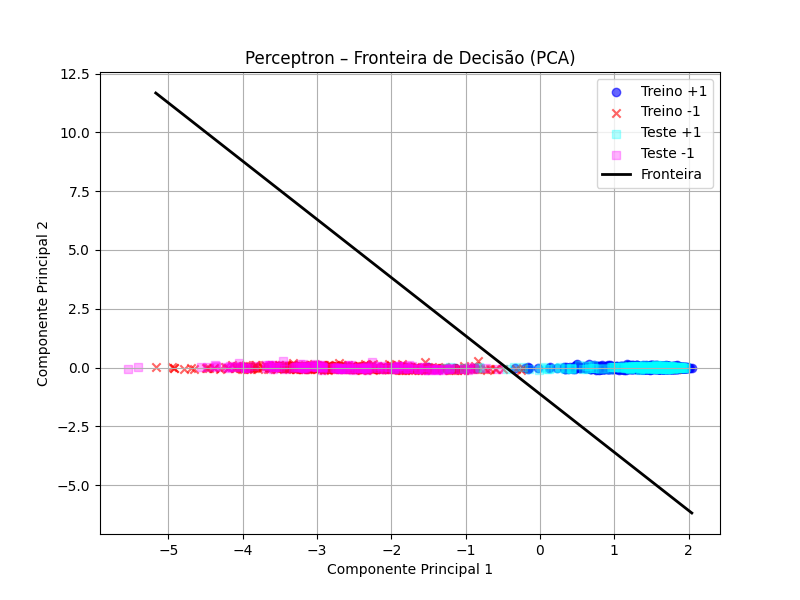
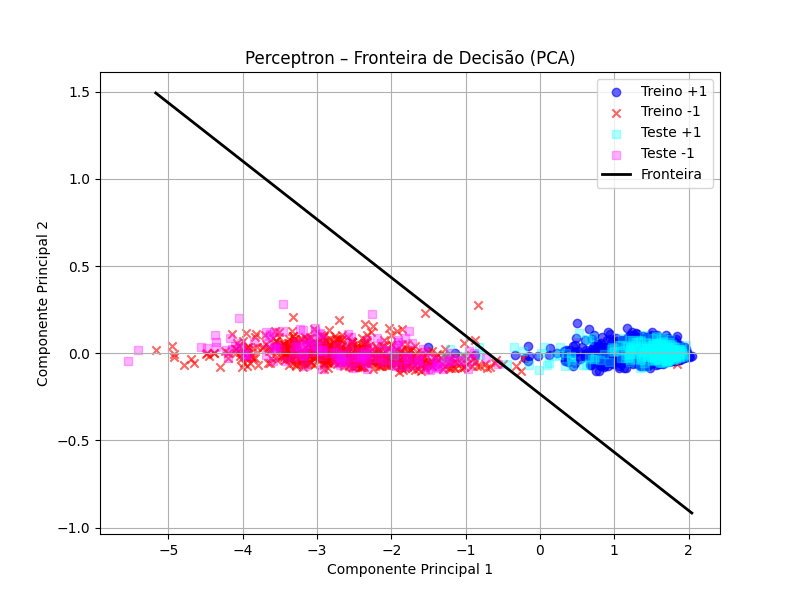
docs: README atualizado com instruções de execução e explicação do modelo

diff --git a/perceptron.py b/perceptron.py
@@ -95,7 +95,7 @@ if __name__ == "__main__":
     x_train, y_train = preprocessar(x_train, y_train, class_pos = 1, class_neg = 5)
     x_test, y_test = preprocessar(x_test, y_test, class_pos = 1, class_neg = 5)
 
-    w = perceptron_pla(x_train, y_train, max_epocas=1, semente=87)
+    w = perceptron_pla(x_train, y_train, max_epocas=1000, semente=10)
 
     pred_train = np.sign(np.dot(x_train, w))
     pred_test  = np.sign(np.dot(x_test, w))

diff --git a/README.md b/README.md
@@ -1,2 +1,96 @@
 # Perceptron
-Implementação de modelo de perceptron
+
+Implementação de um perceptron treinado com o algoritmo PLA para classificar dígitos do dataset `digits` entre as classes `1` e `5`.
+
+O projeto foi feito para carregar os dados, filtrar apenas essas duas classes, adicionar bias, treinar o modelo, medir erro/acurácia em treino e teste e visualizar a fronteira de decisão em 2D com PCA.
+
+## Visão geral
+
+O arquivo principal é `perceptron.py`. Ele faz o seguinte:
+
+1. Carrega os arquivos `dataset/digits.train` e `dataset/digits.test`.
+2. Filtra somente as amostras das classes `1` e `5`.
+3. Converte os rótulos para `+1` e `-1`.
+4. Adiciona uma coluna de bias nas entradas.
+5. Treina um perceptron com inicialização aleatória dos pesos e limite de épocas.
+6. Calcula erro e acurácia dentro e fora da amostra.
+7. Reduz os dados para 2 dimensões com PCA apenas para visualização.
+8. Plota e salva a fronteira de decisão em `fronteira_decisao.png`.
+
+## Requisitos
+
+- Python 3.10 ou superior
+- Dependências listadas em `requirements.txt`
+
+As bibliotecas usadas no código são:
+
+- `numpy`
+- `matplotlib`
+- `scikit-learn`
+
+## Instalação
+
+Crie e ative um ambiente virtual, se quiser isolar a execução, e instale as dependências:
+
+```bash
+python -m pip install -r requirements.txt
+```
+
+## Como rodar
+
+Execute o script principal a partir da raiz do projeto:
+
+```bash
+python perceptron.py
+```
+
+## O que acontece na execução
+
+Durante a execução, o script:
+
+- lê os dados de treino e teste;
+- mantém apenas as classes `1` e `5`;
+- transforma a classe `5` em `-1` e a classe `1` em `+1`;
+- adiciona bias nas features;
+- treina o perceptron com `max_epocas=1000` e semente `10`;
+- imprime o erro e a acurácia em treino e teste;
+- abre um gráfico com a fronteira de decisão;
+- salva a figura como `fronteira_decisao.png`.
+
+## Estrutura do código
+
+### `carregar_dados(path)`
+Carrega o dataset no formato texto e separa rótulos e atributos.
+
+### `preprocessar(x, y, class_pos=1, class_neg=5)`
+Filtra apenas as duas classes desejadas, converte os rótulos para `+1/-1` e adiciona bias.
+
+### `perceptron_pla(x, y, max_epocas=1000, semente=None)`
+Treina o perceptron pelo PLA. A cada época, percorre as amostras e atualiza os pesos sempre que há erro de classificação.
+
+### `erro(y_verdadeiro, y_predito)`
+Calcula a taxa de erro como a proporção de previsões incorretas.
+
+### `plotar_fronteira(X_train, y_train, X_test, y_test, pesos)`
+Reduz os dados para 2 dimensões com PCA, projeta os pesos no mesmo espaço e desenha a fronteira de decisão.
+
+## Saída esperada
+
+Ao final, o script imprime algo no formato:
+
+```text
+Erro dentro da amostra: 0.XXXX  |  Acurácia: 0.XXXX
+Erro fora da amostra:    0.XXXX  |  Acurácia: 0.XXXX
+```
+
+Depois disso, o gráfico é exibido em uma janela e salvo no diretório atual.
+
+## Observações
+
+- O treinamento usa apenas as classes `1` e `5`.
+- A visualização em PCA serve só para inspeção do resultado, não altera o treino.
+- Se o arquivo `fronteira_decisao.png` já existir, ele será sobrescrito.
+
+## Licença
+
+Não definida neste repositório.